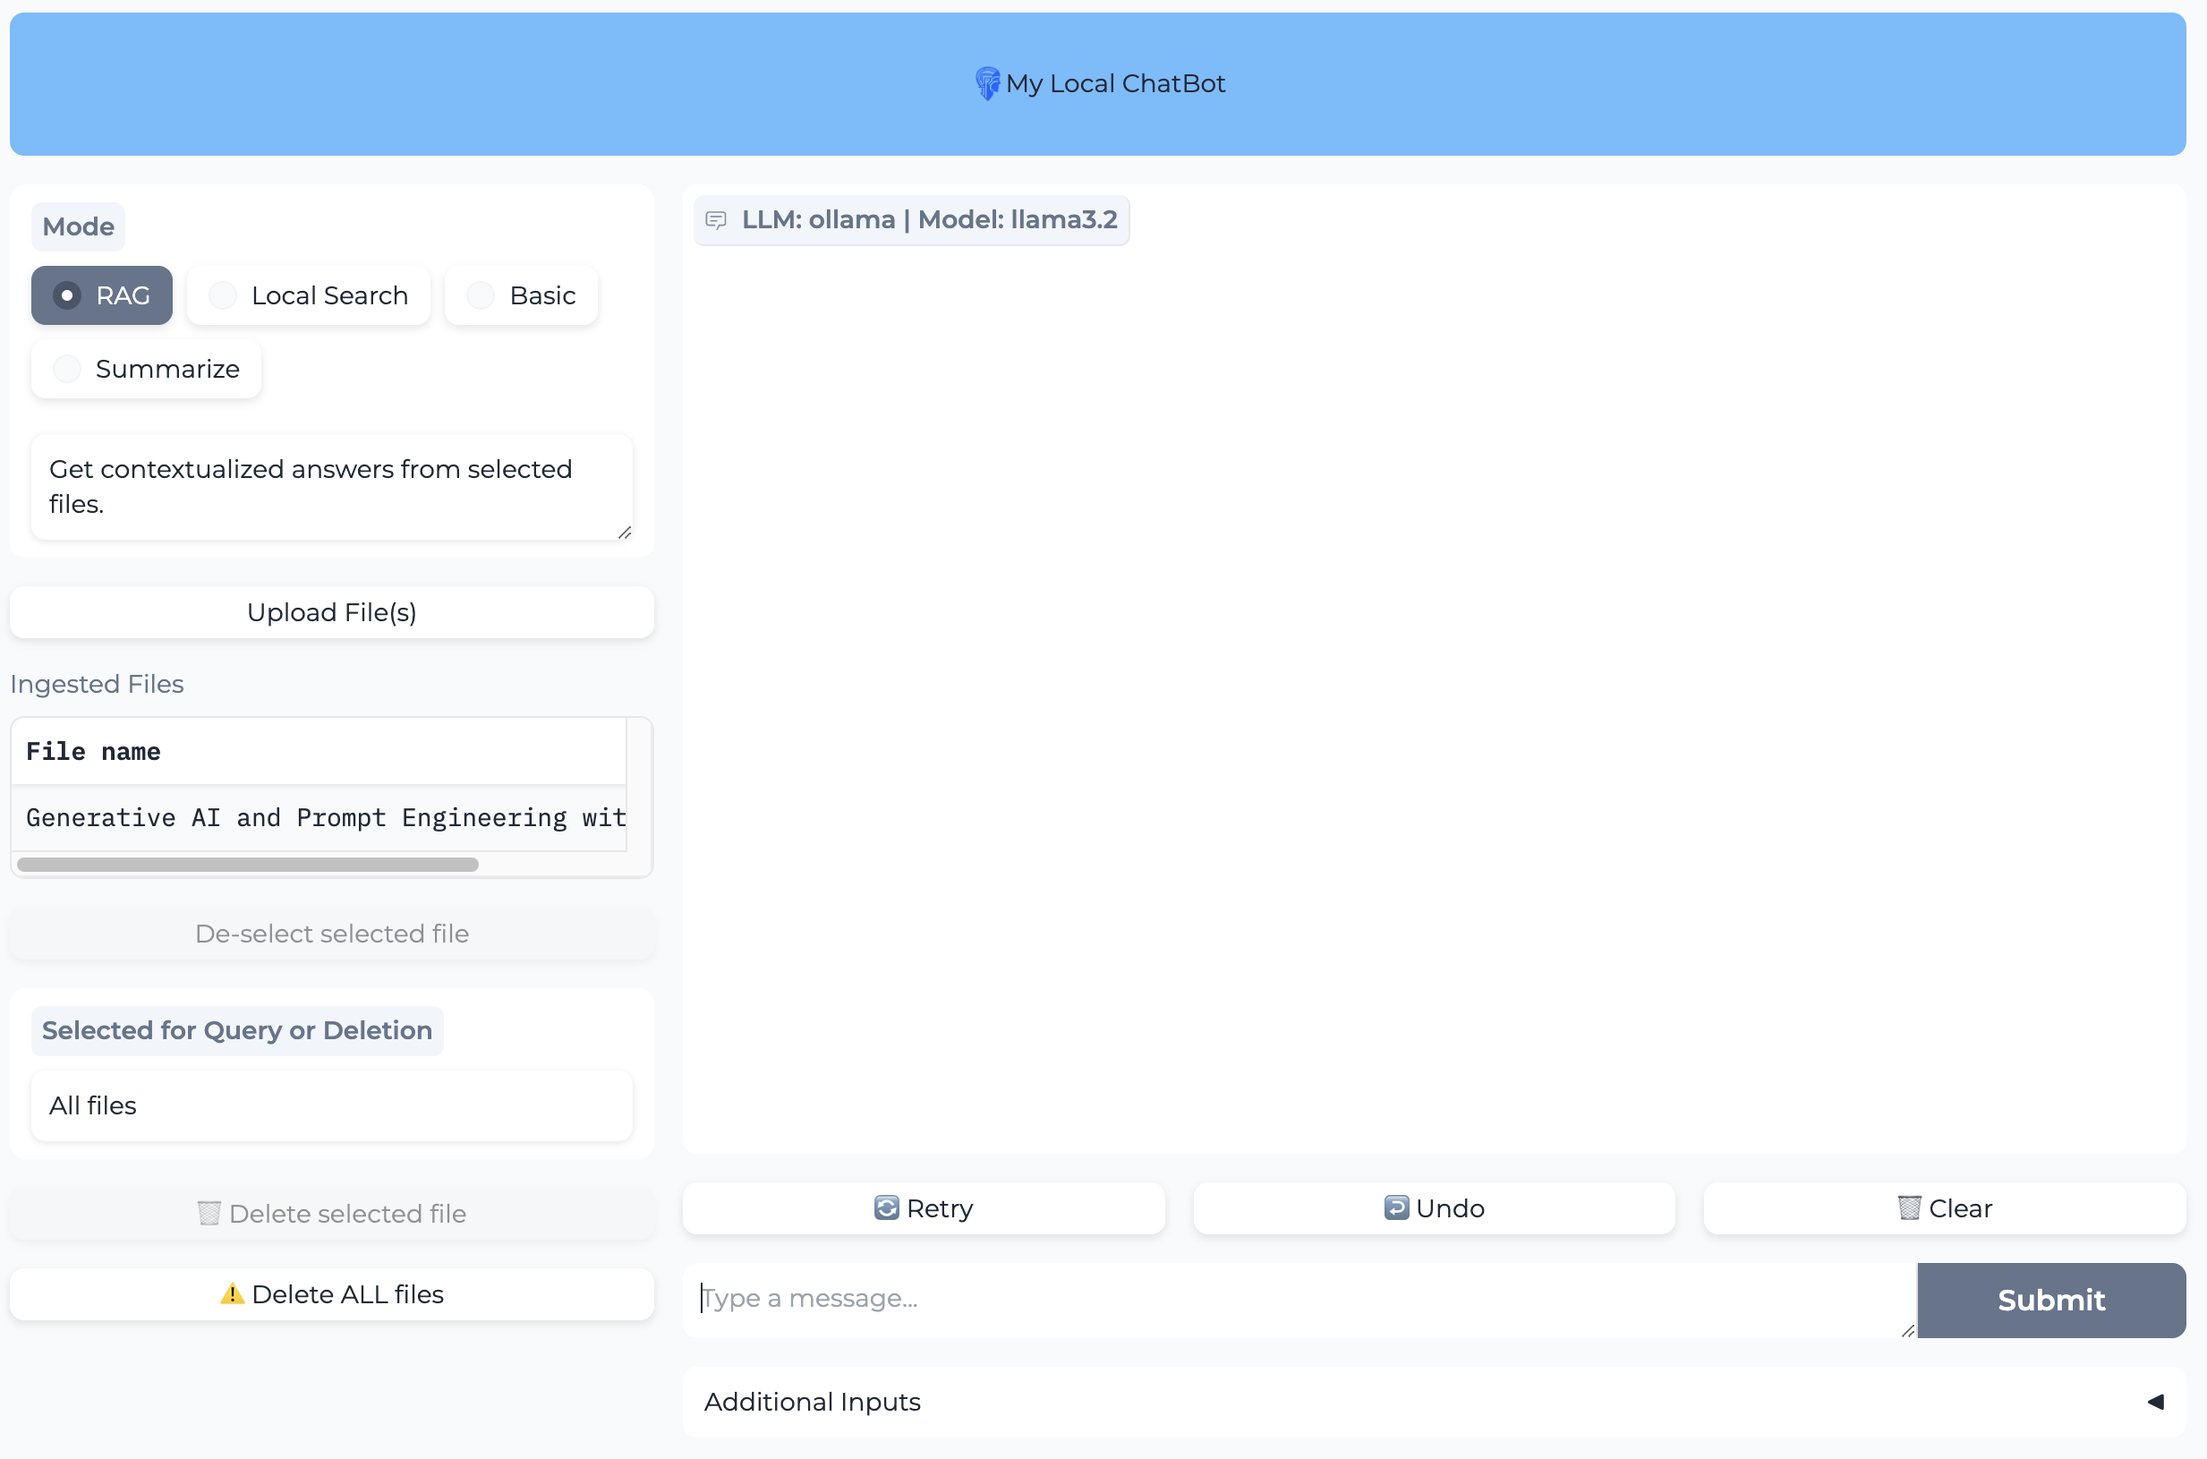
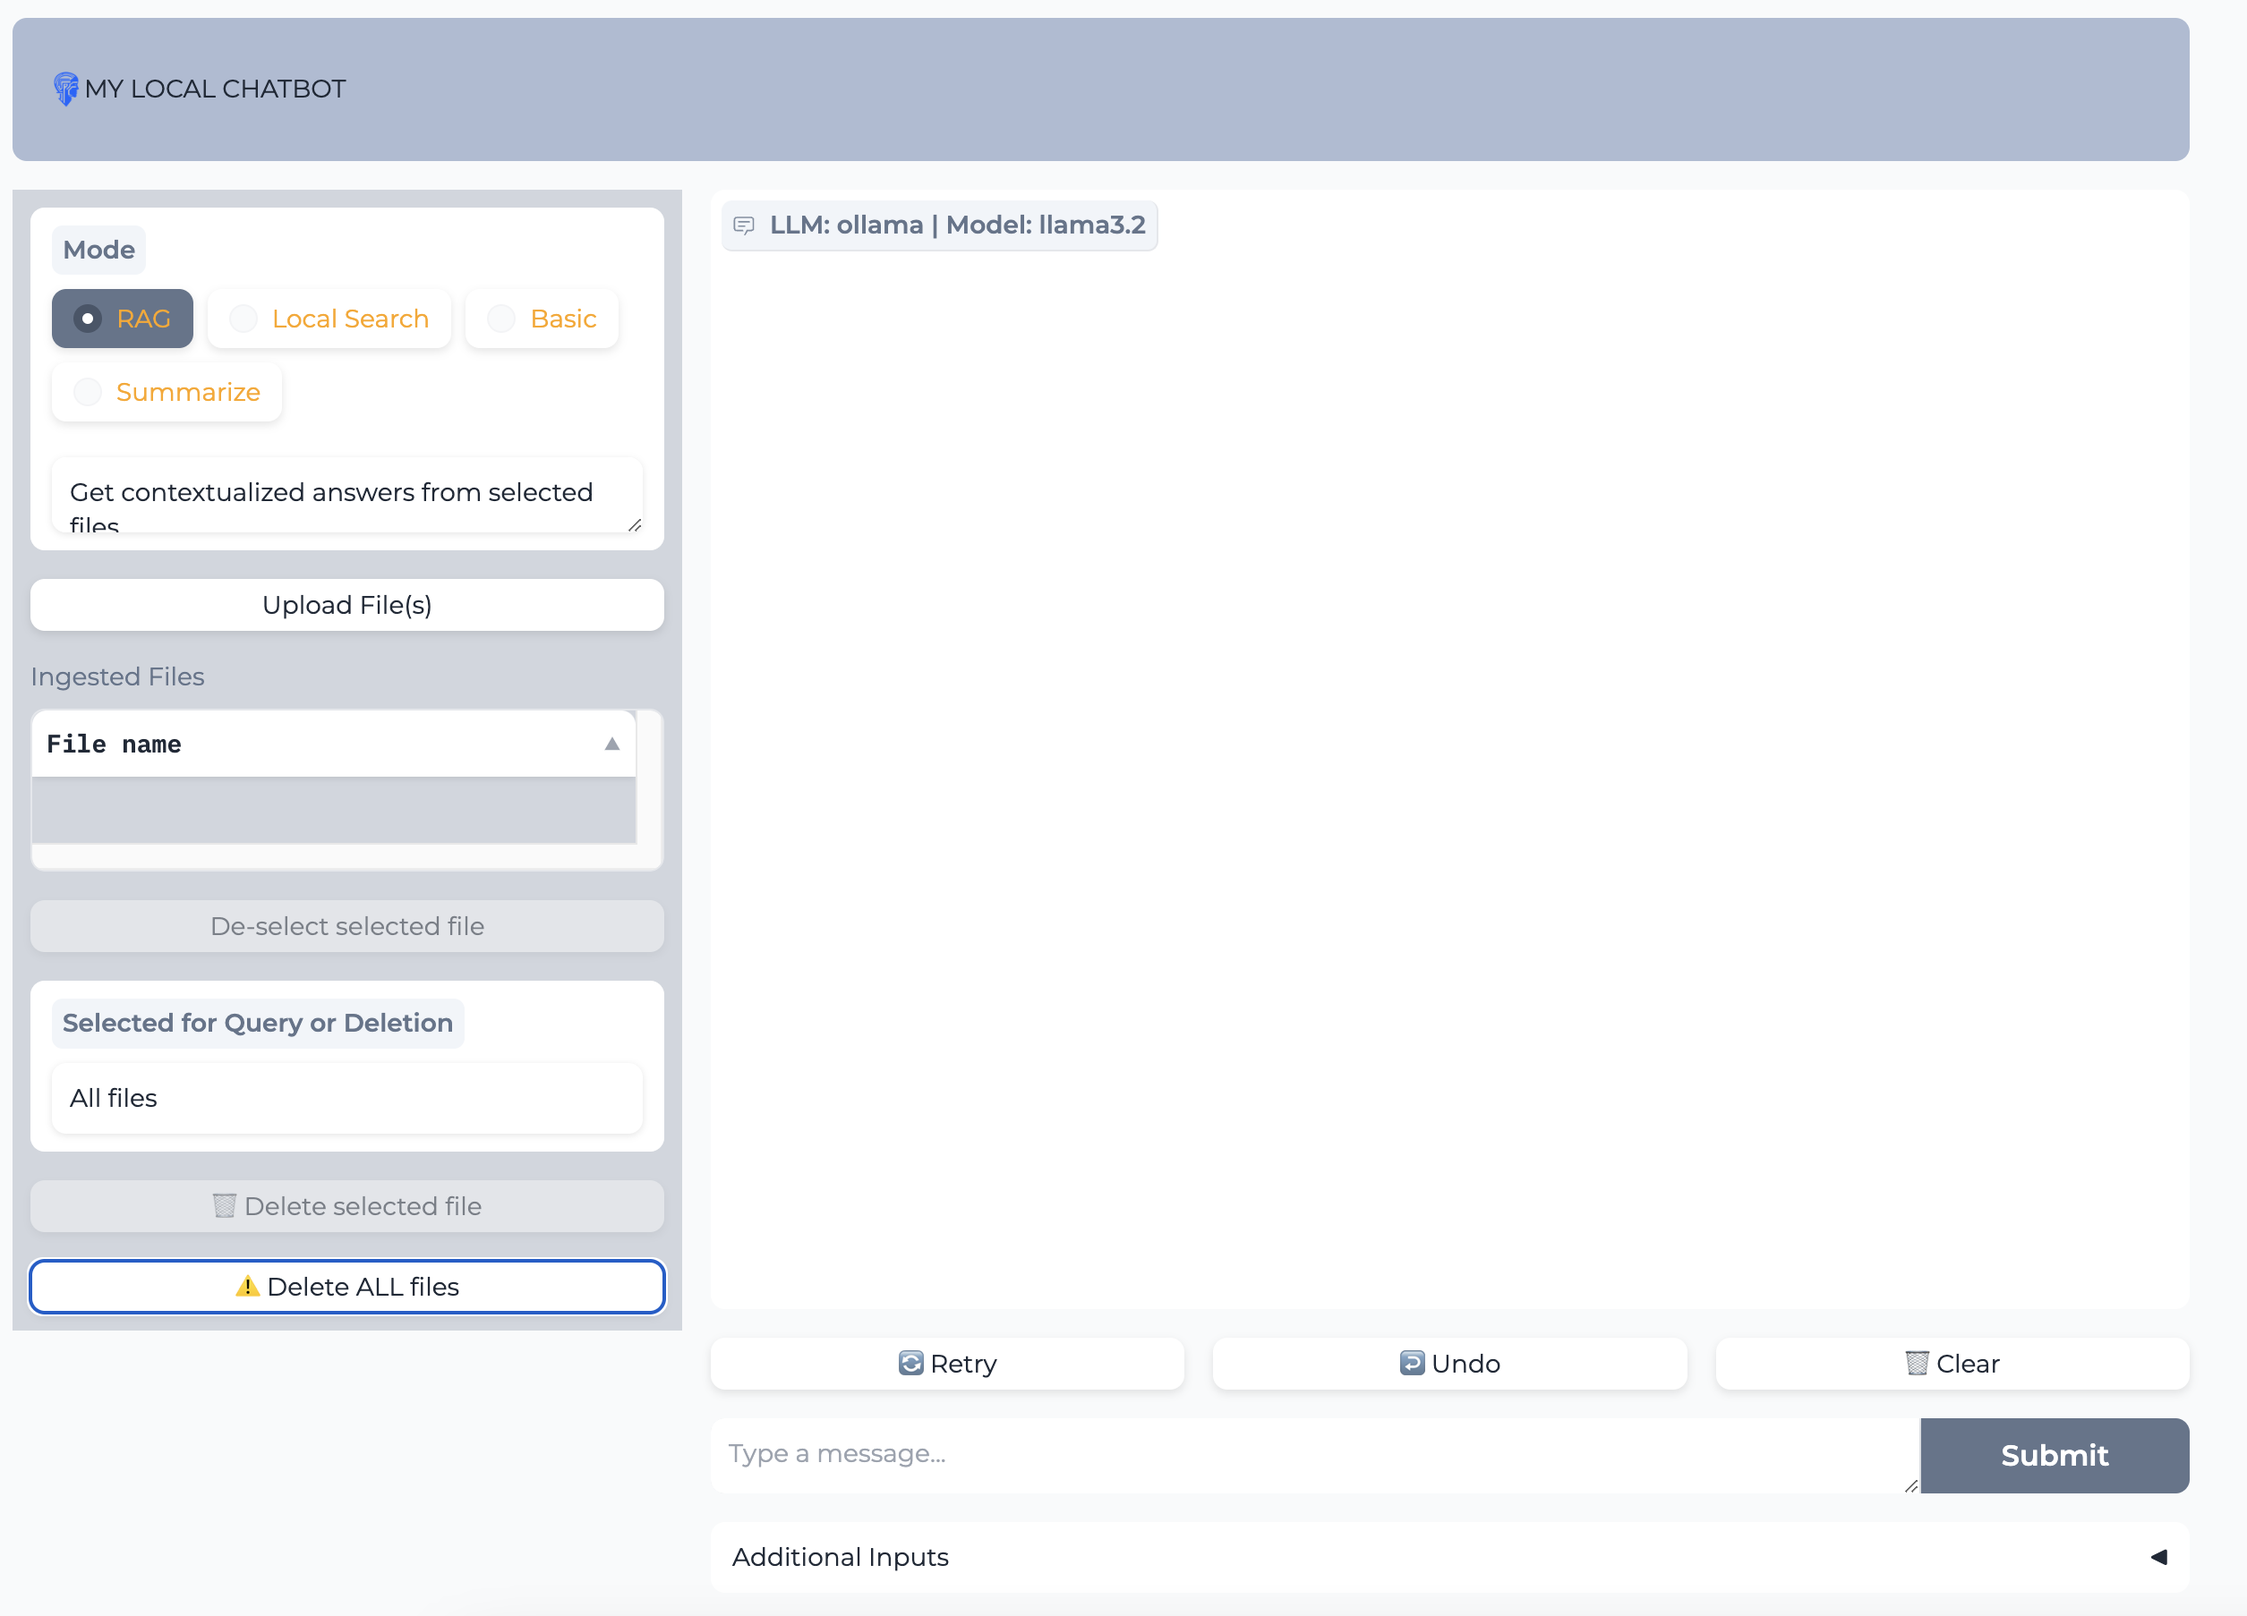
Updated UI

diff --git a/local_chat/ui/ui.py b/local_chat/ui/ui.py
@@ -369,31 +369,40 @@ class PrivateGptUi:
             title=UI_TAB_TITLE,
             theme=gr.themes.Soft(primary_hue=slate),
             css=".logo { "
-            "display:flex;"
-            "background-color: #6abdff;"
-            "height: 80px;"
-            "border-radius: 8px;"
-            "align-content: center;"
-            "justify-content: center;"
-            "align-items: center;"
-            "}"
-            ".logo img { height: 25% }"
-            ".contain { display: flex !important; flex-direction: column !important; }"
-            "#component-0, #component-3, #component-10, #component-8  { height: 100% !important; }"
-            "#chatbot { flex-grow: 1 !important; overflow: auto !important;}"
-            "#col { height: calc(100vh - 112px - 16px) !important; }"
-            "hr { margin-top: 1em; margin-bottom: 1em; border: 0; border-top: 1px solid #FFF; }"
-            ".avatar-image { background-color: antiquewhite; border-radius: 2px; }"
-            ".footer { text-align: center; margin-top: 20px; font-size: 14px; display: flex; align-items: center; justify-content: center; }"
-            ".footer-skillpedia-link { display:flex; margin-left: 5px; text-decoration: auto; color: var(--body-text-color); }"
-            ".footer-skillpedia-link:hover { color: #C7BAFF; }"
-            ".footer-skillpedia-ico { height: 20px; margin-left: 5px; background-color: antiquewhite; border-radius: 2px; }",
+               "display:flex;"
+               "background-color: #aebbd3;"  # Silver background
+               "height: 80px;"
+               "border-radius: 8px;"
+               "align-content: center;"
+               "justify-content: flex-start;"  # Left alignment
+               "align-items: center;"
+               "padding-left: 20px;"  # Added spacing
+               "}"
+               ".left-panel { "
+               "background-color: #d1d6de !important;"  # Carbon Silver
+               "color: white !important;"
+               "padding: 10px !important;"
+               "}"
+               ".left-panel label, .left-panel .gr-textbox, .left-panel .gr-radio { "
+               "color: orange !important;"
+               "}"
+               ".logo img { height: 25% }"
+               ".contain { display: flex !important; flex-direction: column !important; }"
+               "#component-0, #component-3, #component-10, #component-8  { height: 100% !important; }"
+               "#chatbot { flex-grow: 1 !important; overflow: auto !important;}"
+               "#col { height: calc(100vh - 112px - 16px) !important; }"
+               "hr { margin-top: 1em; margin-bottom: 1em; border: 0; border-top: 1px solid #FFF; }"
+               ".avatar-image { background-color: antiquewhite; border-radius: 2px; }"
+               ".footer { text-align: center; margin-top: 20px; font-size: 14px; display: flex; align-items: center; justify-content: center; }"
+               ".footer-skillpedia-link { display:flex; margin-left: 5px; text-decoration: auto; color: var(--body-text-color); }"
+               ".footer-skillpedia-link:hover { color: #C7BAFF; }"
+               ".footer-skillpedia-ico { height: 20px; margin-left: 5px; background-color: antiquewhite; border-radius: 2px; }",
         ) as blocks:
             with gr.Row():
-                gr.HTML(f"<div class='logo'/><img src={logo_svg} alt=LocalChat>My Local ChatBot</div")
+                gr.HTML(f"<div class='logo'/><img src={logo_svg} alt=LocalChat>MY LOCAL CHATBOT</div")
 
             with gr.Row(equal_height=False):
-                with gr.Column(scale=3):
+                with gr.Column(scale=3,elem_classes=["left-panel"]):
                     default_mode = self._default_mode
                     mode = gr.Radio(
                         [mode.value for mode in MODES],
